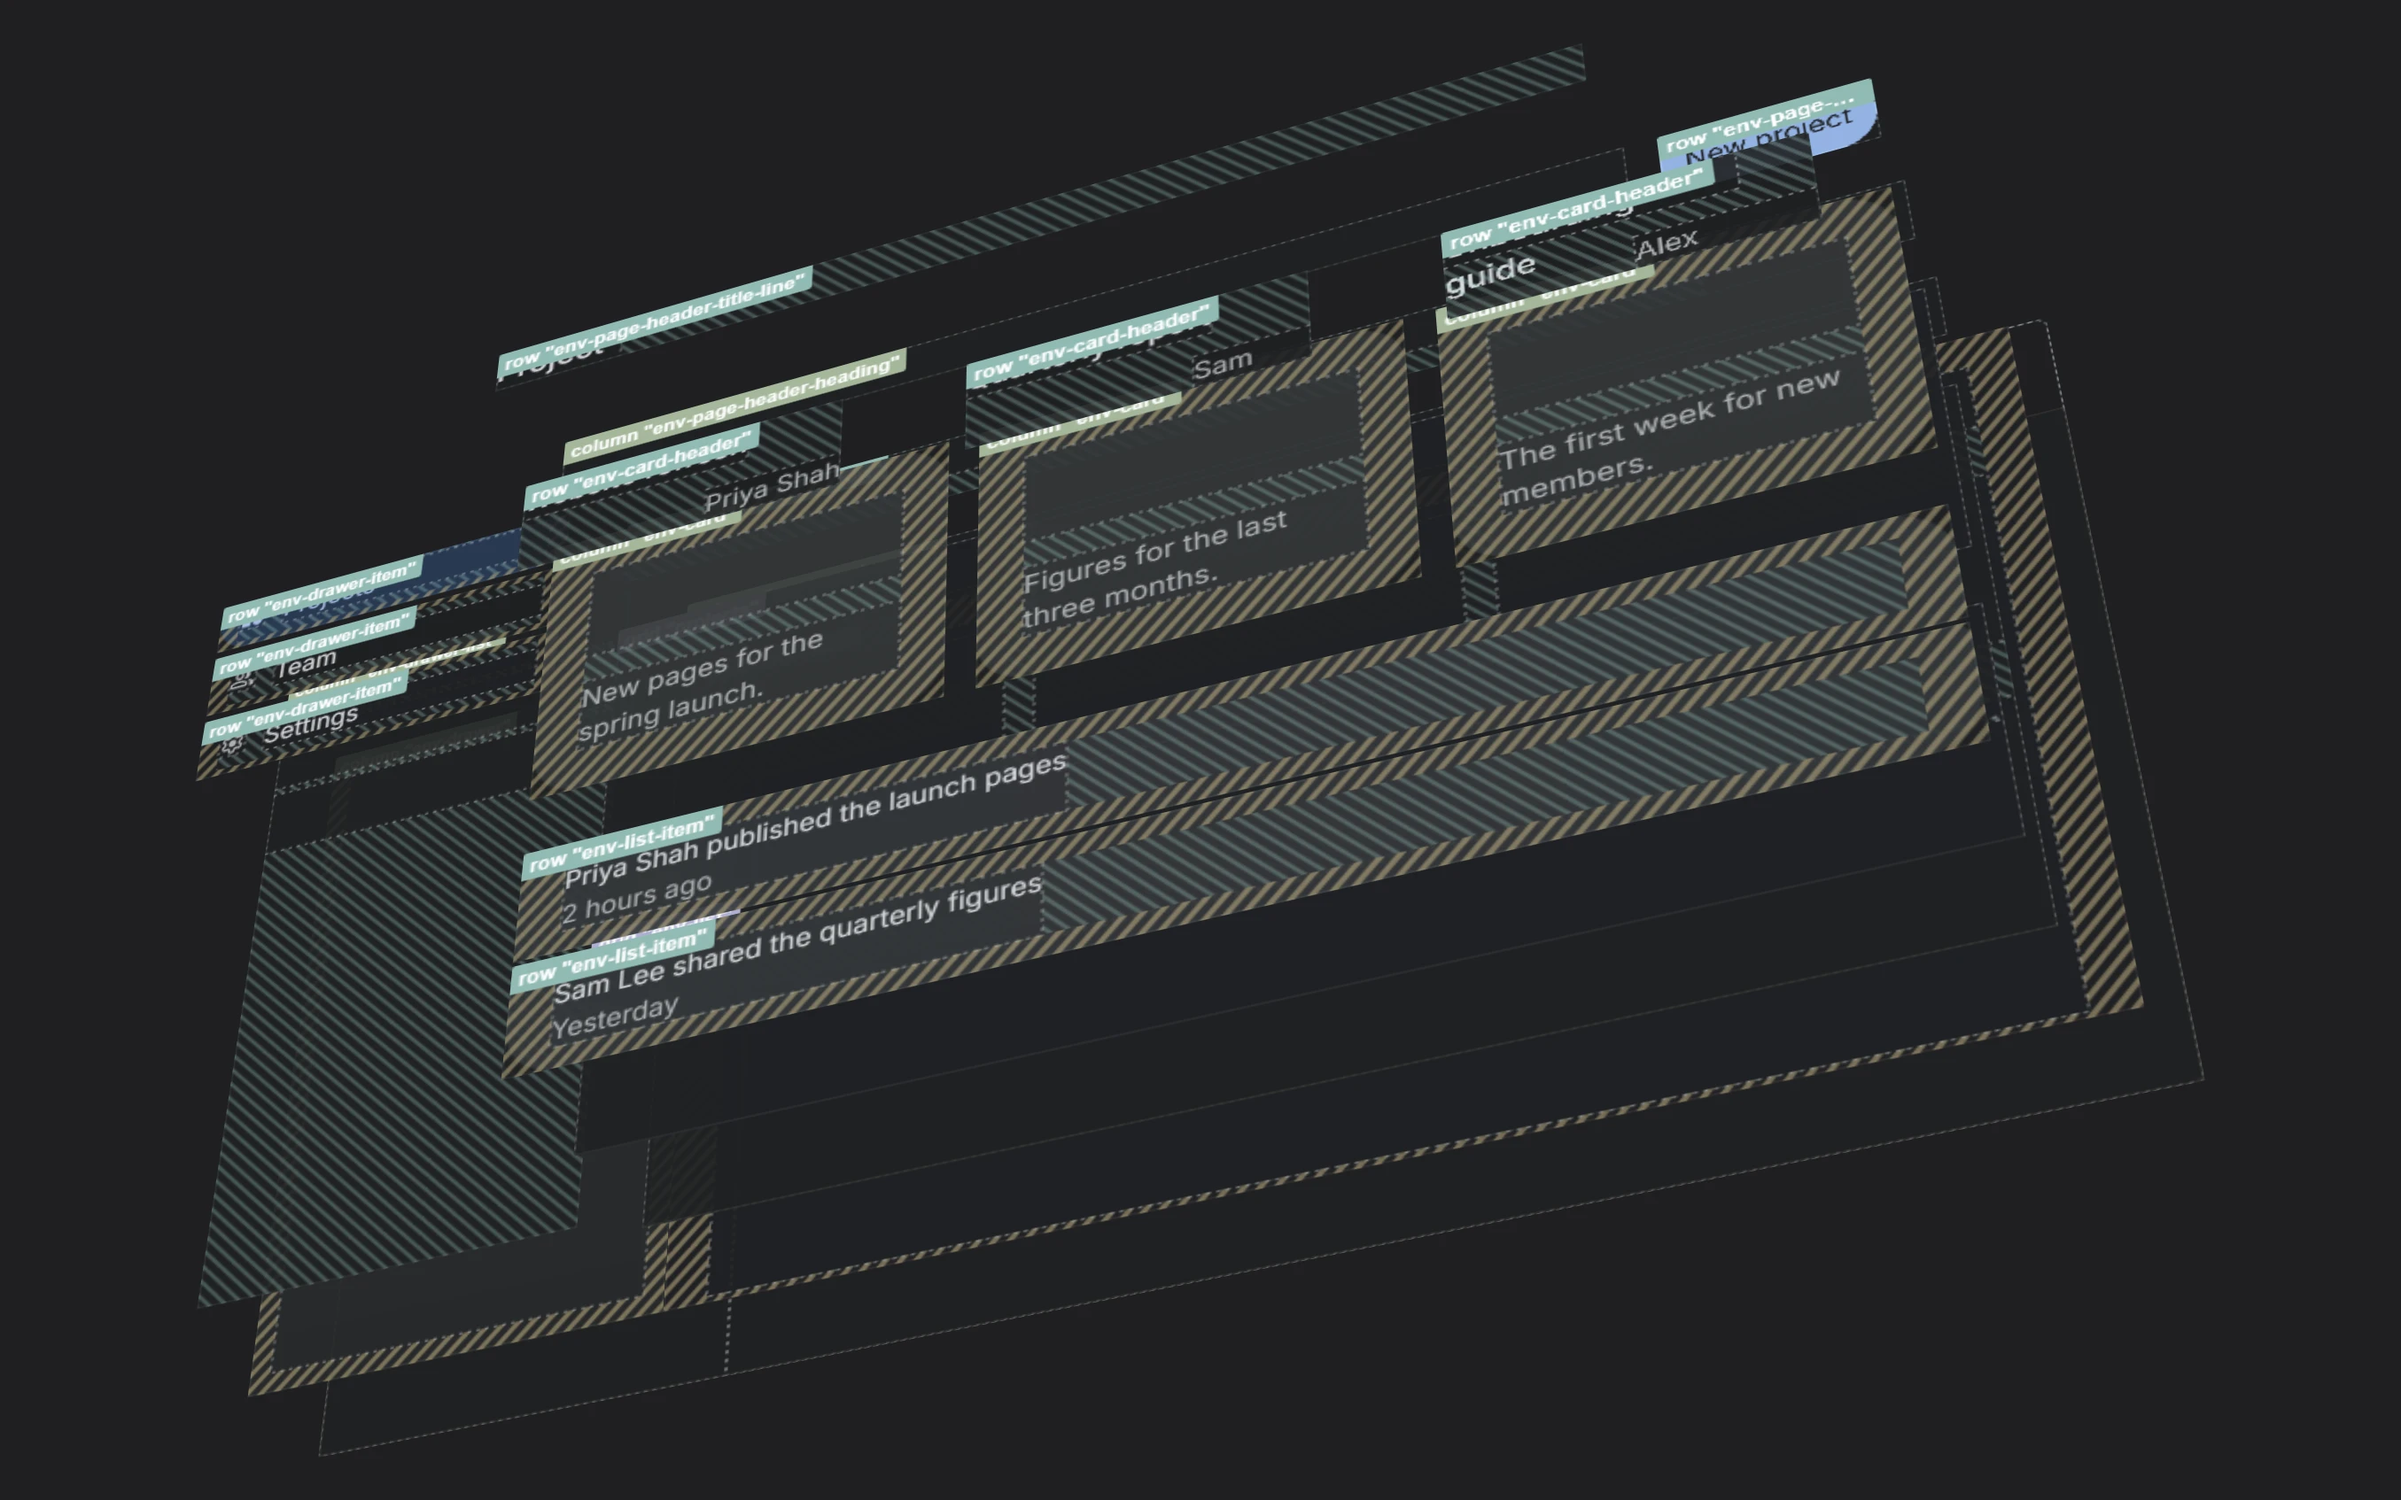
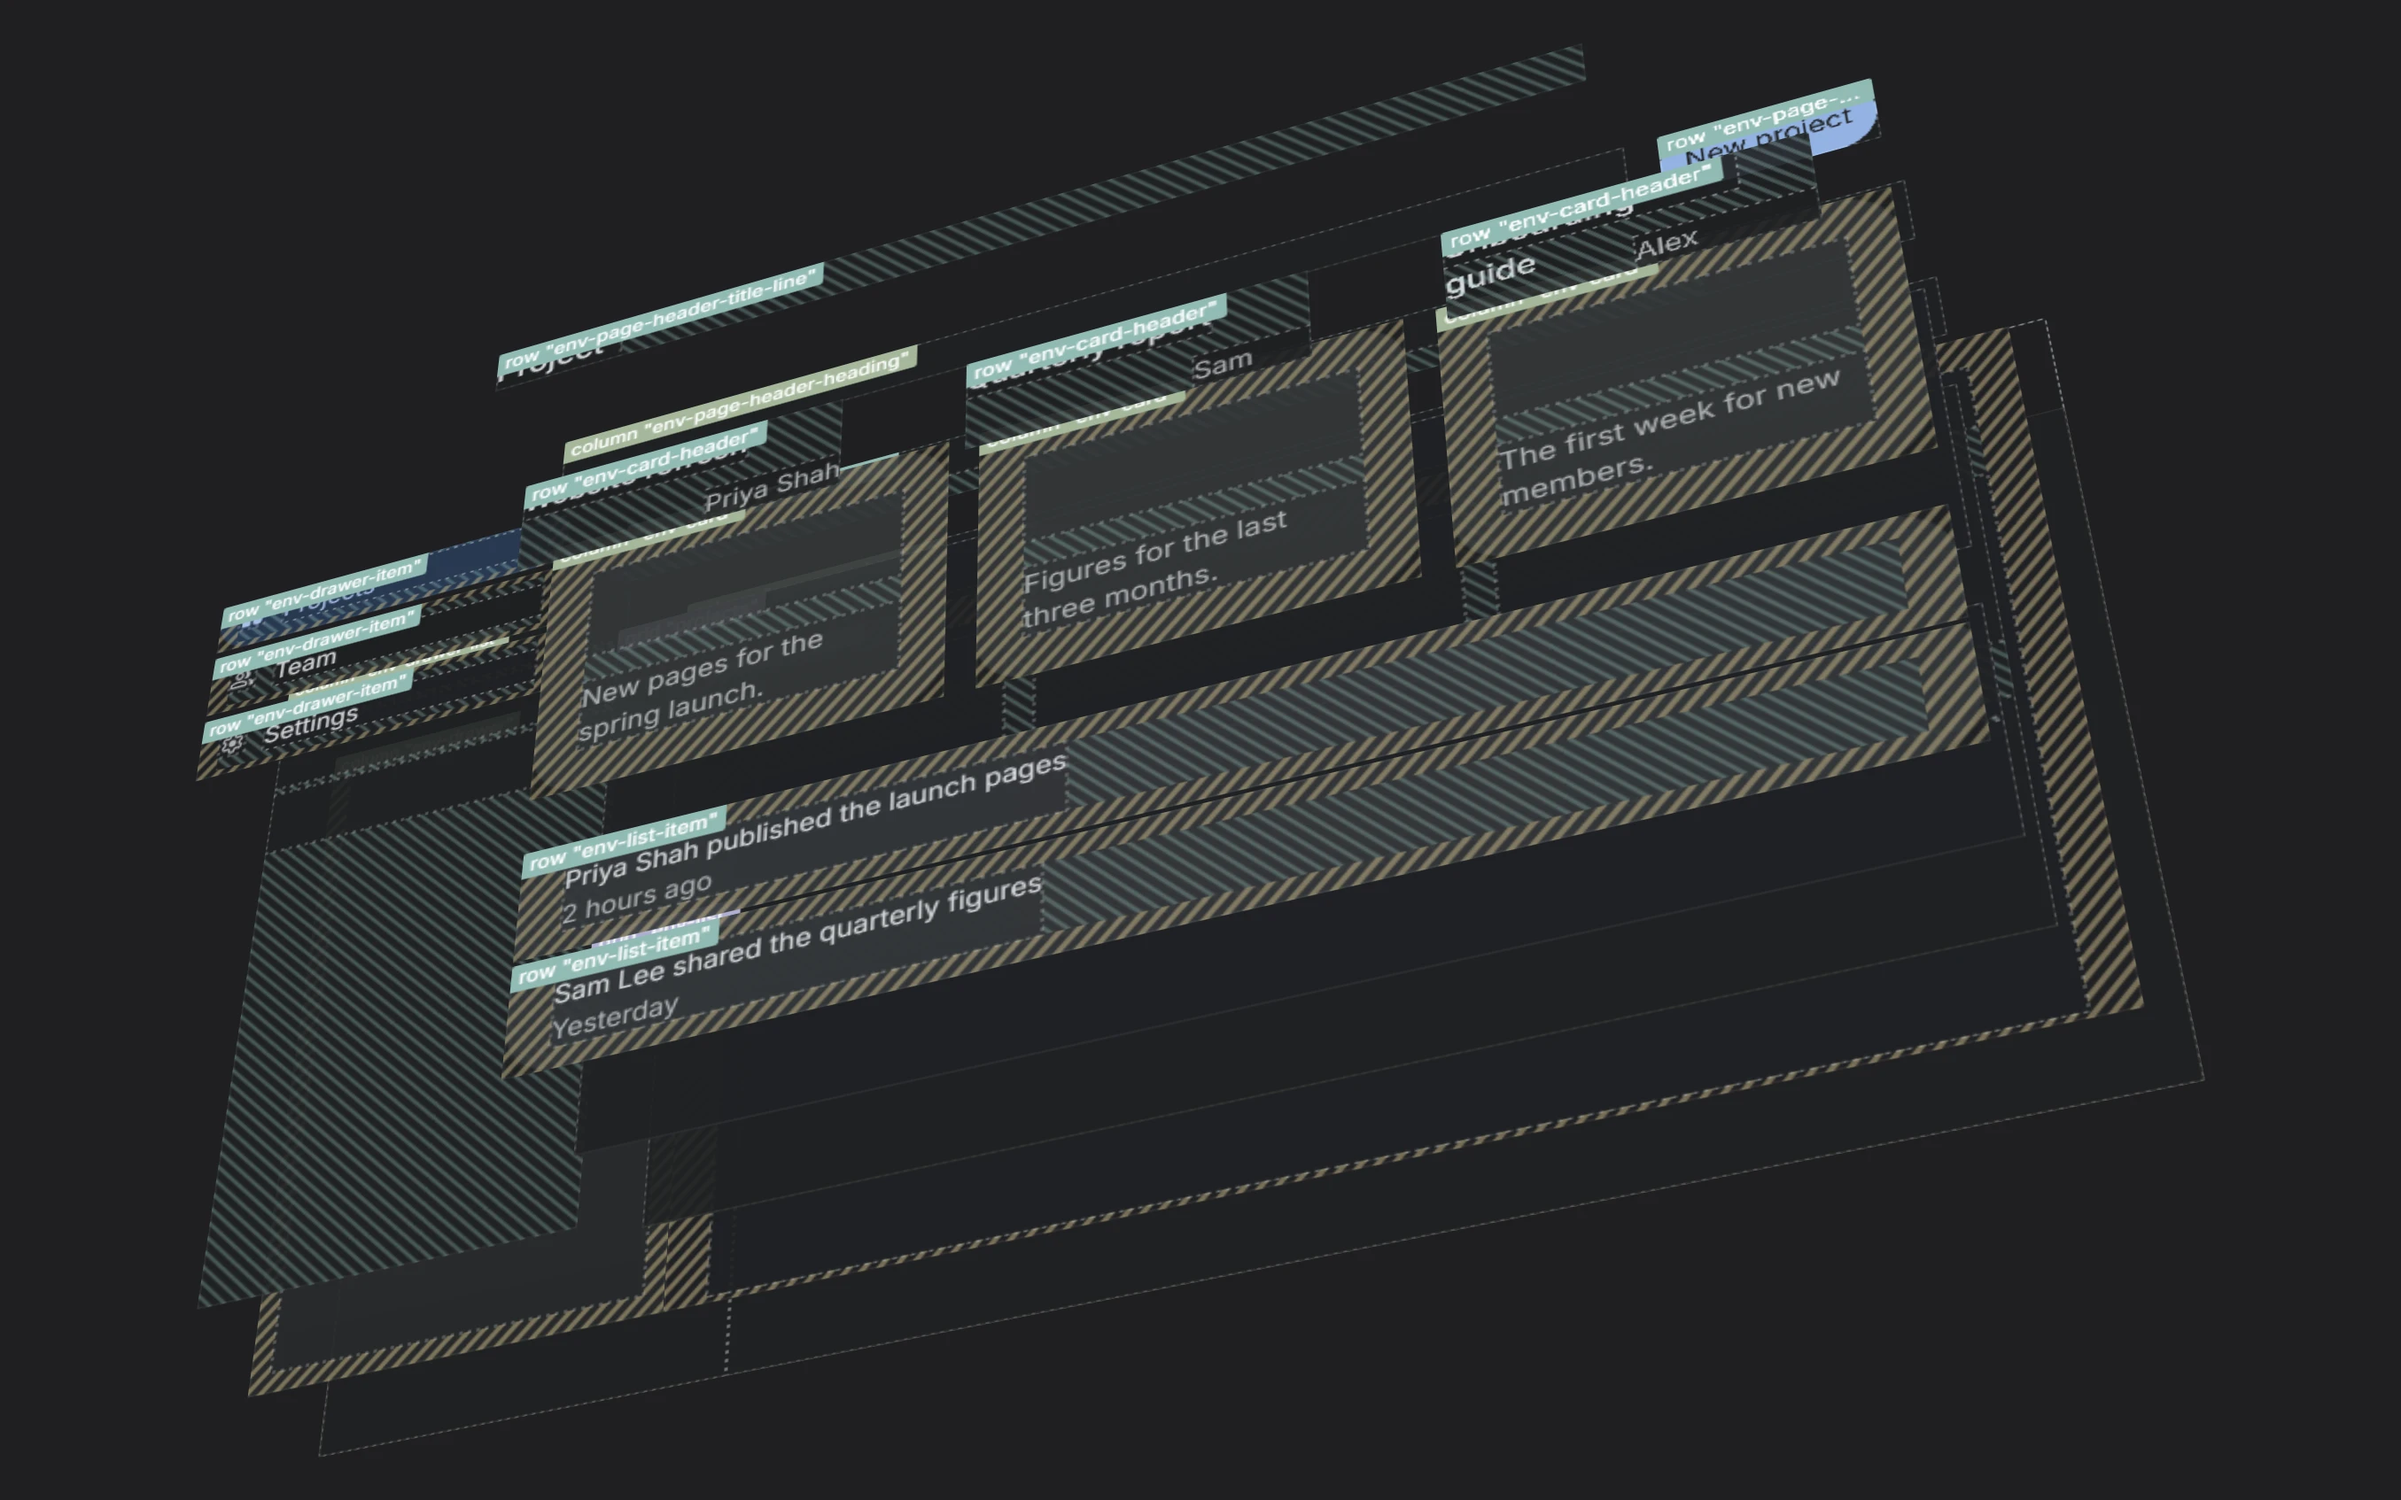
Dev mode's pictures and page for its new tab and toolbar
The capture script drives the dropdowns and the sidebars' own buttons, and
the toolbar's picture shows the View dropdown open on its angles. The Site's
dev mode page says the button opens a new tab, and describes the dropdowns.

diff --git a/apps/catalogue/src/pages/DevMode.tsx b/apps/catalogue/src/pages/DevMode.tsx
@@ -43,29 +43,29 @@ const shots = {
   toolbar: {
     light: toolbarLight,
     dark: toolbarDark,
-    width: 644,
-    height: 52,
-    alt: "Dev mode's toolbar: buttons to turn the view, fit it, show names and spacing, pick a size and a theme, and close dev mode.",
+    width: 304,
+    height: 189,
+    alt: "Dev mode's toolbar of four dropdowns, the first open: the view's angles laid out as they look at the page, Top above Front, Left and Right beside it, Tilted in the top right corner, and Fit below them.",
   },
   inspector: {
     light: inspectorLight,
     dark: inspectorDark,
-    width: 336,
-    height: 322,
+    width: 352,
+    height: 329,
     alt: 'The details of a selected card: what it is, its size and window class, and its one problem in red, a sentence saying its text is squeezed and how to give it room.',
   },
   spacing: {
     light: spacingLight,
     dark: spacingDark,
-    width: 332,
-    height: 312,
+    width: 318,
+    height: 299,
     alt: 'One card alone, close up and tilted: the padding around its content and the gaps between its parts are hatched.',
   },
   problems: {
     light: problemsLight,
     dark: problemsDark,
-    width: 240,
-    height: 702,
+    width: 256,
+    height: 698,
     alt: 'The list of the boxes of a page, headed by six problems: each card and its header is marked with one.',
   },
   frame: {
@@ -166,7 +166,7 @@ export function DevModePage({ page }: { page: SitePage }) {
             <Block
               stacked
               title="A toolbar over the view"
-              text="Look at the page tilted, straight on, from the top or from a side, show the boxes' names and their spacing, lay the page out at another size, and show dev mode light or dark."
+              text="Four dropdowns, each named as you point at it: look at the page tilted, from the front, the top or a side, choose what the layers show, and lay the page out at a phone's or a tablet's size."
             >
               <ShotFigure shot={shots.toolbar} label="Dev mode's toolbar" />
             </Block>
@@ -208,9 +208,9 @@ export function DevModePage({ page }: { page: SitePage }) {
               title="Press the dev mode button"
               text={
                 <>
-                  The round button in the bottom corner of the page opens dev mode, and so does{' '}
-                  <Kbd keys={['Alt', 'Shift', 'D']} />. Press <Kbd>Esc</Kbd>, or the button again,
-                  to close it.
+                  The round button in the bottom corner of the page opens dev mode in a new tab, and
+                  so does <Kbd keys={['Alt', 'Shift', 'D']} />. The page you were on stays as it
+                  was; close the tab when you are done.
                 </>
               }
             >
